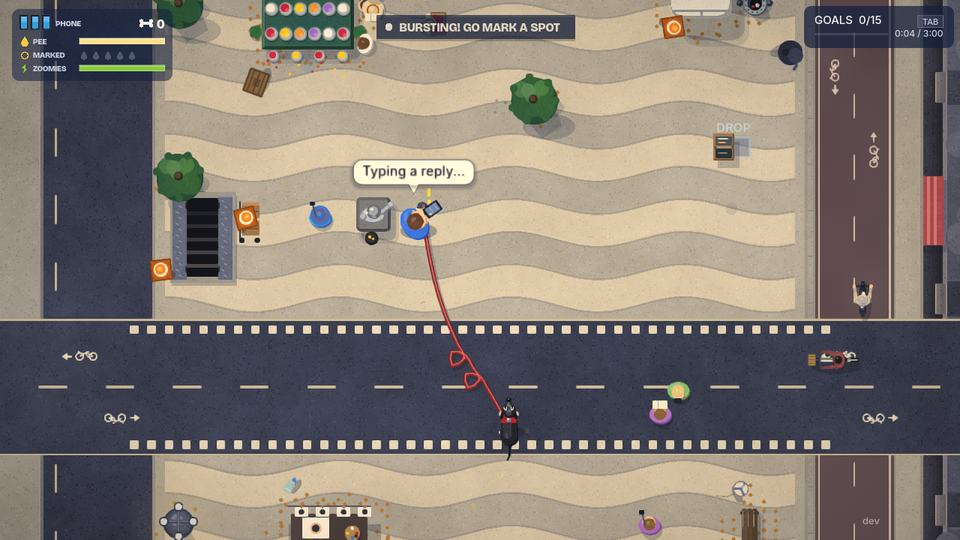
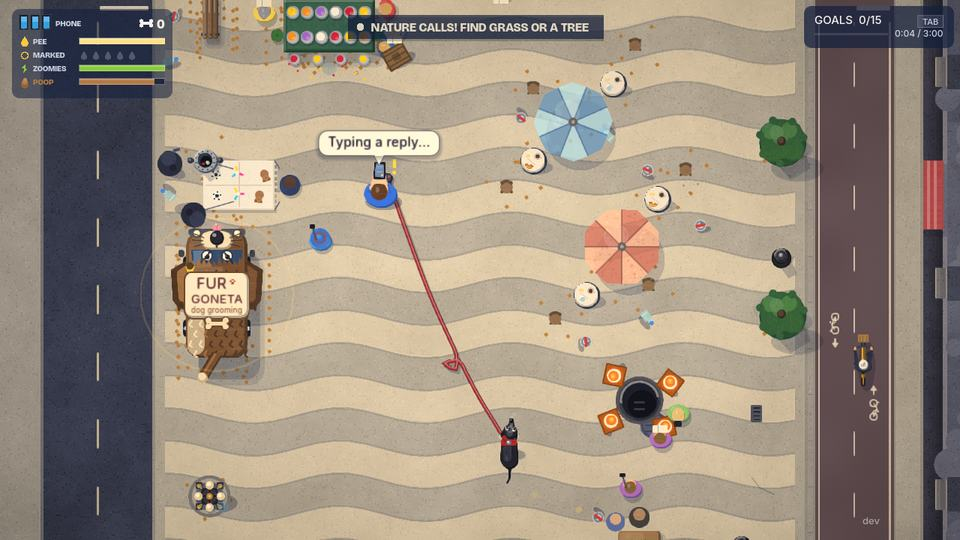
Redraw La Rambla's junctions and reframe its screenshot

diff --git a/site/index.html b/site/index.html
@@ -127,7 +127,7 @@
   <div class="walk-grid">
     <a class="walk-card is-tutorial" href="walks/tutorial.html"><img src="img/shot-tutorial.jpg" alt="First Walk: the dog and human walk along a quiet neighborhood street at the start of the tutorial." width="960" height="540" loading="lazy"><span class="walk-card-body"><span class="walk-badges"><span class="badge badge-tut">Tutorial</span></span><span class="walk-name">First Walk</span><span class="walk-gloss">Learn the leash, trick by trick</span></span></a>
     <a class="walk-card" href="walks/barri.html"><img src="img/shot-barri.jpg" alt="El Barri: plane trees, stone benches and neighborhood passers-by along a quiet street." width="960" height="540" loading="lazy"><span class="walk-card-body"><span class="walk-name">El Barri</span><span class="walk-gloss">The little park down your street</span></span></a>
-    <a class="walk-card" href="walks/street.html"><img src="img/shot-street.jpg" alt="La Rambla: the dog pulls her distracted human past flower stalls and a green bike lane." width="960" height="540" loading="lazy"><span class="walk-card-body"><span class="walk-name">La Rambla</span><span class="walk-gloss">The crowded promenade</span></span></a>
+    <a class="walk-card" href="walks/street.html"><img src="img/shot-street.jpg" alt="La Rambla: the dog pulls her distracted human past flower stalls and a red bike lane." width="960" height="540" loading="lazy"><span class="walk-card-body"><span class="walk-name">La Rambla</span><span class="walk-gloss">The crowded promenade</span></span></a>
     <a class="walk-card" href="walks/park.html"><img src="img/shot-park.jpg" alt="El Parc: shaded park paths winding beside a fenced pond with ducks." width="960" height="540" loading="lazy"><span class="walk-card-body"><span class="walk-name">El Parc</span><span class="walk-gloss">The city park and its duck pond</span></span></a>
     <a class="walk-card" href="walks/beach.html"><img src="img/shot-beach.jpg" alt="Passeig Marítim: palm-lined promenade at dawn beside sandy beach and Mediterranean surf." width="960" height="540" loading="lazy"><span class="walk-card-body"><span class="walk-badges"><span class="badge badge-sky">Windy, dawn</span></span><span class="walk-name">Passeig Marítim</span><span class="walk-gloss">The beachfront promenade</span></span></a>
     <a class="walk-card is-chase" href="walks/neteja.html"><img src="img/shot-neteja.jpg" alt="La Neteja: wet dawn cobblestones, laundry lines and cones along an early-morning lane." width="960" height="540" loading="lazy"><span class="walk-card-body"><span class="walk-badges"><span class="badge badge-chase">Chase</span><span class="badge badge-sky">Clear, dawn</span></span><span class="walk-name">La Neteja</span><span class="walk-gloss">The city&#x27;s dawn clean-up</span></span></a>

diff --git a/site/walks/street.html b/site/walks/street.html
@@ -4,7 +4,7 @@
 <meta charset="utf-8">
 <meta name="viewport" content="width=device-width, initial-scale=1">
 <title>La Rambla — Path of Leash Resistance</title>
-<meta name="description" content="The crowded promenade. Barcelona&#x27;s famous tree-lined central promenade heading toward the square, paved in waves and Miró mosaic tiles. Flower kiosks, human statues, outdoor terraces, a narrow green bike lane and a couple of pickpockets keep the sidewalk crowded while your human drifts down the middle staring at a screen.">
+<meta name="description" content="The crowded promenade. Barcelona&#x27;s famous tree-lined central promenade heading toward the square, paved in waves and Miró mosaic tiles. Flower kiosks, human statues, outdoor terraces, a narrow red bike lane and a couple of pickpockets keep the sidewalk crowded while your human drifts down the middle staring at a screen.">
 <meta property="og:title" content="La Rambla — Path of Leash Resistance">
 <meta property="og:description" content="The crowded promenade">
 <meta property="og:type" content="website">
@@ -29,7 +29,7 @@
 </header>
 
 <div class="card walk-about">
-  <p>Barcelona&#x27;s famous tree-lined central promenade heading toward the square, paved in waves and Miró mosaic tiles. Flower kiosks, human statues, outdoor terraces, a narrow green bike lane and a couple of pickpockets keep the sidewalk crowded while your human drifts down the middle staring at a screen.</p>
+  <p>Barcelona&#x27;s famous tree-lined central promenade heading toward the square, paved in waves and Miró mosaic tiles. Flower kiosks, human statues, outdoor terraces, a narrow red bike lane and a couple of pickpockets keep the sidewalk crowded while your human drifts down the middle staring at a screen.</p>
 </div>
 
 <dl class="facts walk-facts">
@@ -39,7 +39,7 @@
 
 <h2>Screenshots</h2>
 <div class="grid walk-shots">
-  <figure><a href="../img/shot-street.jpg"><img src="../img/shot-street.jpg" alt="La Rambla: the dog pulls her distracted human past flower stalls and a green bike lane." width="960" height="540" loading="lazy"></a><figcaption>Threading the stalls and bike lane on La Rambla</figcaption></figure>
+  <figure><a href="../img/shot-street.jpg"><img src="../img/shot-street.jpg" alt="La Rambla: the dog pulls her distracted human past flower stalls and a red bike lane." width="960" height="540" loading="lazy"></a><figcaption>Threading the stalls and bike lane on La Rambla</figcaption></figure>
   <figure><a href="../img/shot-street-2.jpg"><img src="../img/shot-street-2.jpg" alt="La Rambla: the off-leash corner yard past the end of the promenade." width="960" height="540" loading="lazy"></a><figcaption>Unclipped at the pipicà</figcaption></figure>
 </div>
 

diff --git a/changelog.d/2026-11-24-rambla-crossings.md b/changelog.d/2026-11-24-rambla-crossings.md
@@ -1,0 +1,5 @@
+## 2026-11-24 - La Rambla's junctions redrawn
+
+- The zebras on La Rambla's side road and bike lane are whole, evenly spaced and centred between their kerbs, level with each other, with the lane lines cleared from under them, botons tiles at each end and a stop line only for the traffic that comes to it.
+- The bike crossing runs between granite bands with a centre line, arrows and give-way teeth each way. The Drac door's zebra is laid the same way, and a side road's centre line is in its middle on every walk that has one.
+- The Store's first screenshot and the website's link preview show the terrace on La Rambla.
